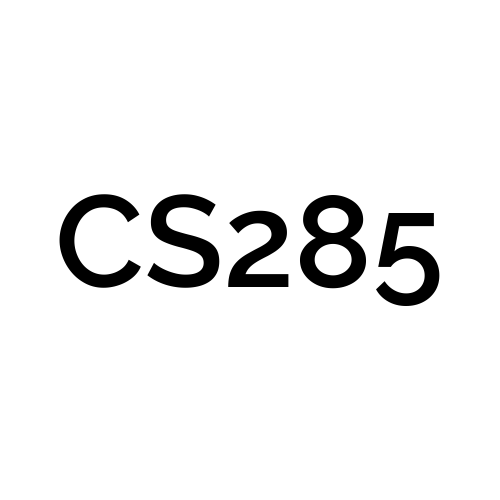
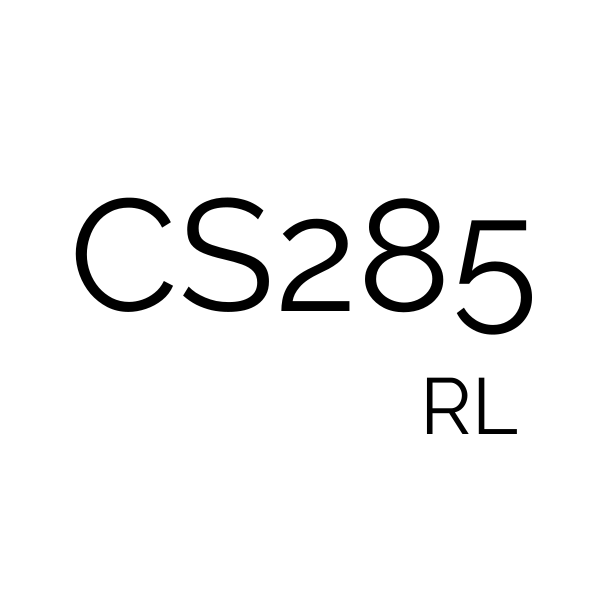
docs(infinity): add comprehensive documentation and minor updates
Added a comprehensive AGENTS.md file documenting the Infinity browser start page project. The documentation includes project overview, tech stack, file structure, code organization, development guidelines, deployment instructions, and shortcut listings. Minor updates were made to the codebase: improved search input handling by adding composition event check to prevent premature search activation during IME input, replaced a site icon with Folo.is link, added new keyboard shortcuts for Scott Manley, Coros, and ITHome, and added new icon files for CS285-f, cs168, and cyweather. The documentation provides clear guidance for future development and maintenance of the project.

Changed region(s): [[0.12, 0.33, 0.9, 0.75]]

diff --git a/index.html b/index.html
@@ -105,7 +105,7 @@
 
     const searchInput = document.getElementById("searchInput");
     searchInput.addEventListener("keydown", function(event) {
-        if (event.key === "Enter") {
+        if (event.key === "Enter" && !event.isComposing) {
             event.preventDefault(); 
             search('bilibili');
         }
@@ -117,8 +117,9 @@
     <div class="body">
         <a href="https://webvpn.xmu.edu.cn/"><img style="background-color: rgba(4,71,146,1);"src="web_icon/icon-1hd7omdhk7jtseuf59tf7wsyg42.png">
         <a href="https://filehelper.weixin.qq.com/"><img src="web_icon/icon-1hpfelfrcnyroixwxq48hgnub1r.png">
-        <a href="https://www.zhihu.com/people/kvxjr369f"><img src="web_icon/icon-1hht7hv1igpf4w4lfyqc3cuvkyn.png">
+        <!-- <a href="https://www.zhihu.com/people/kvxjr369f"><img src="web_icon/icon-1hht7hv1igpf4w4lfyqc3cuvkyn.png"> -->
         <a href="https://www.douban.com/"><img src="web_icon/icon-1h9qu2pjo4erf7nyvrdhiut0t3p.png">
+        <a href="https://app.folo.is/timeline/articles/all/pending"><img src="web_icon/folo.png">
         <a href="https://music.163.com/#/playlist?id=6671511948"><img src="web_icon/icon-1hdjfs10fclmaw06m708tlg1x74.png">
         <a href="https://github.com/"><img src="web_icon/icon-1hl5qad3kczi5brf8uvi0hc4ksz.png">
         <a href="http://www.cninfo.com.cn/new/index"><img src="web_icon/icon-1hlc4f9jvw4o6hygspujmccxxp6.png">
@@ -147,7 +148,8 @@
         <a href="https://rail.eecs.berkeley.edu/deeprlcourse/"><img style="background-color: rgba(255,255,255,1);"src="web_icon/CS285.png">
         <a href="https://www.imf.org/en/Data"><img style="background-color: rgba(255,255,255,1);"src="web_icon/icon-1hnfh7j3t9qgpnmow26fgghthj2.png">
         <a href="https://www.kaggle.com/"><img style="background-color: rgba(255,255,255,1);"src="web_icon/icon-1hnmr0epf6gngm47fnqm9c8yon2.png">
-        <a href="https://www.geogebra.org/calculator"><img style="background-color: rgba(255,255,255,1);"src="web_icon/Geogebra.jpg">
+        <!-- <a href="https://www.geogebra.org/calculator"><img style="background-color: rgba(255,255,255,1);"src="web_icon/Geogebra.jpg"> -->
+        <a href="https://www.caiyunapp.com/h5/"><img style="background-color: rgba(255,255,255,1);"src="web_icon/cyweather.jpg">
         <a href="https://translate.google.com/"><img style="background-color: rgba(255,255,255,1);"src="web_icon/trans.jpg">
         <a href="https://chatgpt.com/"><img style="background-color: rgba(255,255,255,1);"src="web_icon/openai.png">
         <a href="https://fonts.google.com/icons"><img style="background-color: rgba(255,255,255,1);"src="web_icon/gfont.jpg">

diff --git a/script.js b/script.js
@@ -34,6 +34,9 @@ function startKeyDetection() {
         'kp': 'https://www.youtube.com/@AndrejKarpathy',
         'ka': 'https://x.com/karminski3',
         'jd': 'https://www.jd.com/',
+        'sc': 'https://www.youtube.com/@scottmanley',
+        'co': 'https://t.coros.com/',
+        'it': 'https://www.ithome.com/blog/',
     };
     let timeout; // 用于存储定时器的引用
 

diff --git a/AGENTS.md b/AGENTS.md
@@ -1,0 +1,213 @@
+# Infinity - 个人浏览器起始页
+
+## 项目概述
+
+Infinity 是一个个性化的浏览器起始页（New Tab 页面），提供快速搜索和多站点导航功能。项目采用纯前端技术栈（HTML/CSS/JavaScript），无需构建工具，可直接在浏览器中打开运行。
+
+主要功能包括：
+- 集成多个搜索引擎的统一搜索框
+- 常用网站图标网格，支持一键访问
+- 键盘快捷键系统（双字母组合快速跳转）
+- 下拉菜单支持（用于聚合相关链接）
+- 深色/浅色模式自适应
+- 响应式布局，适配不同屏幕尺寸
+
+## 技术栈
+
+- **前端框架**: 原生 HTML5 + CSS3 + ES6+ JavaScript
+- **架构**: 模块化 ES6 模块
+- **样式**: CSS 变量 + Flexbox/Grid 布局
+- **图标处理**: Python + Pillow (PIL) + Jupyter Notebook
+- **版本控制**: Git
+
+## 文件结构
+
+```
+.
+├── index.html                 # 主页面（骨架结构）
+├── infinity.css               # 主样式表，包含响应式布局
+├── js/                        # JavaScript 模块目录
+│   ├── app.js                 # 应用入口，初始化所有模块
+│   ├── config.js              # 配置数据（搜索引擎、网站、快捷键）
+│   ├── search.js              # 搜索功能管理器
+│   ├── keyboard.js            # 键盘快捷键管理器
+│   └── renderer.js            # UI 渲染模块
+├── icon_gen.ipynb             # 图标处理 Jupyter Notebook
+├── .gitignore                 # Git 忽略规则
+├── web_icon/                  # 网页使用的图标（正方形，已处理）
+│   ├── yanan.png              # 页面 favicon
+│   ├── icon-*.png             # 各站点图标
+│   └── ...
+└── ori_icon/                  # 原始图标（未处理，被 gitignore 忽略）
+    └── ...
+```
+
+## 代码组织
+
+### HTML (index.html)
+- 简化为骨架结构，只包含容器元素
+- 通过 ES6 模块引入 JavaScript
+- 所有内容由 JS 动态生成
+
+### JavaScript 模块
+
+#### js/config.js
+集中管理所有配置数据：
+- `searchEngines`: 搜索引擎配置
+- `sites`: 网站图标配置
+- `keyMapping`: 快捷键映射
+- `defaultEngine`: 默认搜索引擎
+
+#### js/search.js
+`SearchManager` 类：
+- 管理搜索输入框
+- 处理搜索按钮点击
+- 绑定回车键搜索
+
+#### js/keyboard.js
+`KeyboardManager` 类：
+- 全局键盘事件监听
+- 双字母快捷键检测
+- 超时处理（800ms）
+
+#### js/renderer.js
+渲染函数集合：
+- `renderSearchButtons()`: 渲染搜索按钮
+- `renderSiteIcons()`: 渲染网站图标
+- 支持下拉菜单的图标渲染
+
+#### js/app.js
+主应用类：
+- 初始化所有管理器
+- 协调各模块工作
+- 应用入口点
+
+### CSS (infinity.css)
+- **CSS 变量**: `:root` 定义主题色彩
+- **深色/浅色模式**: `prefers-color-scheme` 媒体查询
+- **响应式断点**: 1500px、1200px、900px、800px、600px、400px
+- **下拉菜单**: 支持悬停显示子菜单
+
+## 开发规范
+
+### 添加搜索引擎
+在 `js/config.js` 的 `searchEngines` 对象中添加：
+```javascript
+engineName: {
+    name: '显示名称',
+    icon: 'web_icon/icon.png',
+    url: 'https://example.com/search?q='
+}
+```
+
+### 添加网站图标
+在 `js/config.js` 的 `sites` 数组中添加：
+```javascript
+{
+    name: '网站名称',
+    url: 'https://example.com/',
+    icon: 'web_icon/icon.png',
+    bgColor: 'rgba(255,255,255,1)'  // 可选
+}
+```
+
+### 添加下拉菜单
+在网站配置中添加 `dropdown` 属性：
+```javascript
+{
+    name: 'X (Twitter)',
+    url: 'https://x.com/user',
+    icon: 'web_icon/x.png',
+    bgColor: 'rgba(255,255,255,1)',
+    dropdown: [
+        { name: 'dotey', url: 'https://x.com/dotey' }
+    ]
+}
+```
+
+### 添加快捷键
+在 `js/config.js` 的 `keyMapping` 对象中添加：
+```javascript
+'xx': 'https://example.com/',  // xx 为双字母组合
+```
+
+### 图标处理流程
+1. 将原始图标放入 `ori_icon/` 目录
+2. 使用 `icon_gen.ipynb` 处理图标
+3. 输出到 `web_icon/` 目录
+4. 在 `js/config.js` 中引用
+
+## 构建与部署
+
+### 本地开发
+项目为纯静态页面，无需构建步骤：
+```bash
+# 直接打开
+open index.html
+
+# 或使用本地服务器
+python -m http.server 8000
+npx serve .
+```
+
+### 部署
+将以下文件部署到任意静态托管服务：
+- `index.html`
+- `infinity.css`
+- `js/` 目录
+- `web_icon/` 目录
+
+## 浏览器支持
+
+- 现代浏览器（Chrome、Firefox、Safari、Edge）
+- 支持 ES6 模块
+- 响应式设计支持移动端和桌面端
+
+## 依赖说明
+
+### 运行时依赖
+无外部运行时依赖，所有功能基于原生 Web API。
+
+### 开发依赖
+- Python 3.x + Pillow (PIL) - 用于图标处理
+- Jupyter - 用于运行图标处理脚本
+
+安装开发依赖：
+```bash
+pip install pillow jupyter
+```
+
+## 快捷键列表
+
+| 快捷键 | 目标网站 |
+|--------|----------|
+| do | 豆瓣 |
+| zl | Z-Library |
+| yo | YouTube 订阅 |
+| yh | YouTube 历史 |
+| bi | Bilibili |
+| an | Anna's Archive |
+| mp | 微信公众号平台 |
+| gi | GitHub |
+| zh | 知乎 |
+| ch | ChatGPT |
+| tw | 阿里云听悟 |
+| af | 爱发电 |
+| ds | DS100 课程 |
+| fr | 本地服务 (47.120.35.57:8080) |
+| tx | 本地 txtReader (localhost:3000) |
+| ge | Google AI Studio |
+| gm | Gmail |
+| tr | Google 翻译 |
+| cs | CS DIY |
+| ... | ... |
+
+## 注意事项
+
+1. **ES6 模块**: 项目使用 ES6 模块，需要通过 HTTP 服务器访问，不能直接用 `file://` 协议打开
+2. **图标路径**: 所有图标引用使用相对路径 `web_icon/xxx.png`
+3. **快捷键超时**: 按键序列 800ms 后自动清空
+
+---
+
+*重构后的项目采用模块化架构，数据与视图分离，更易于维护和扩展。*
